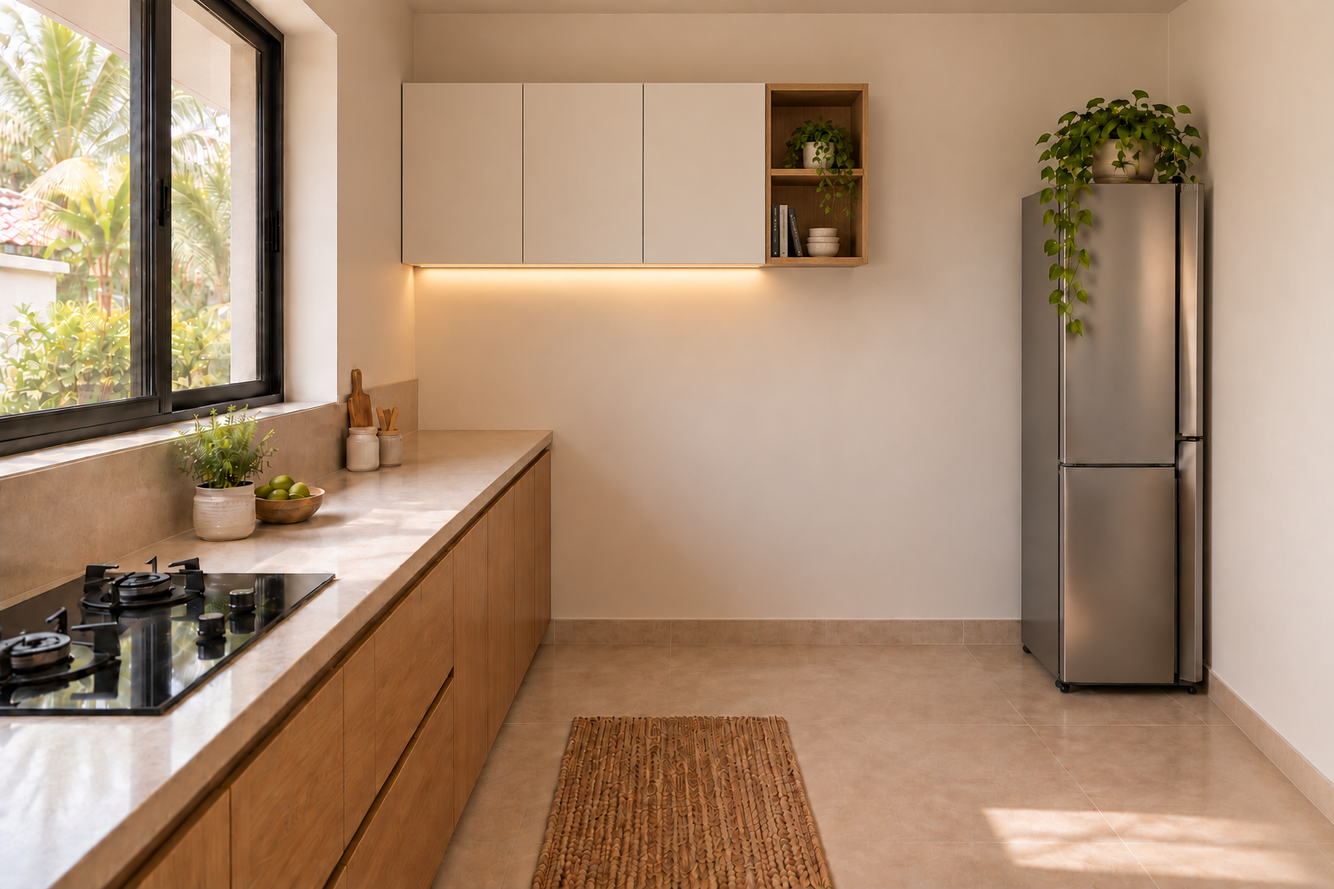
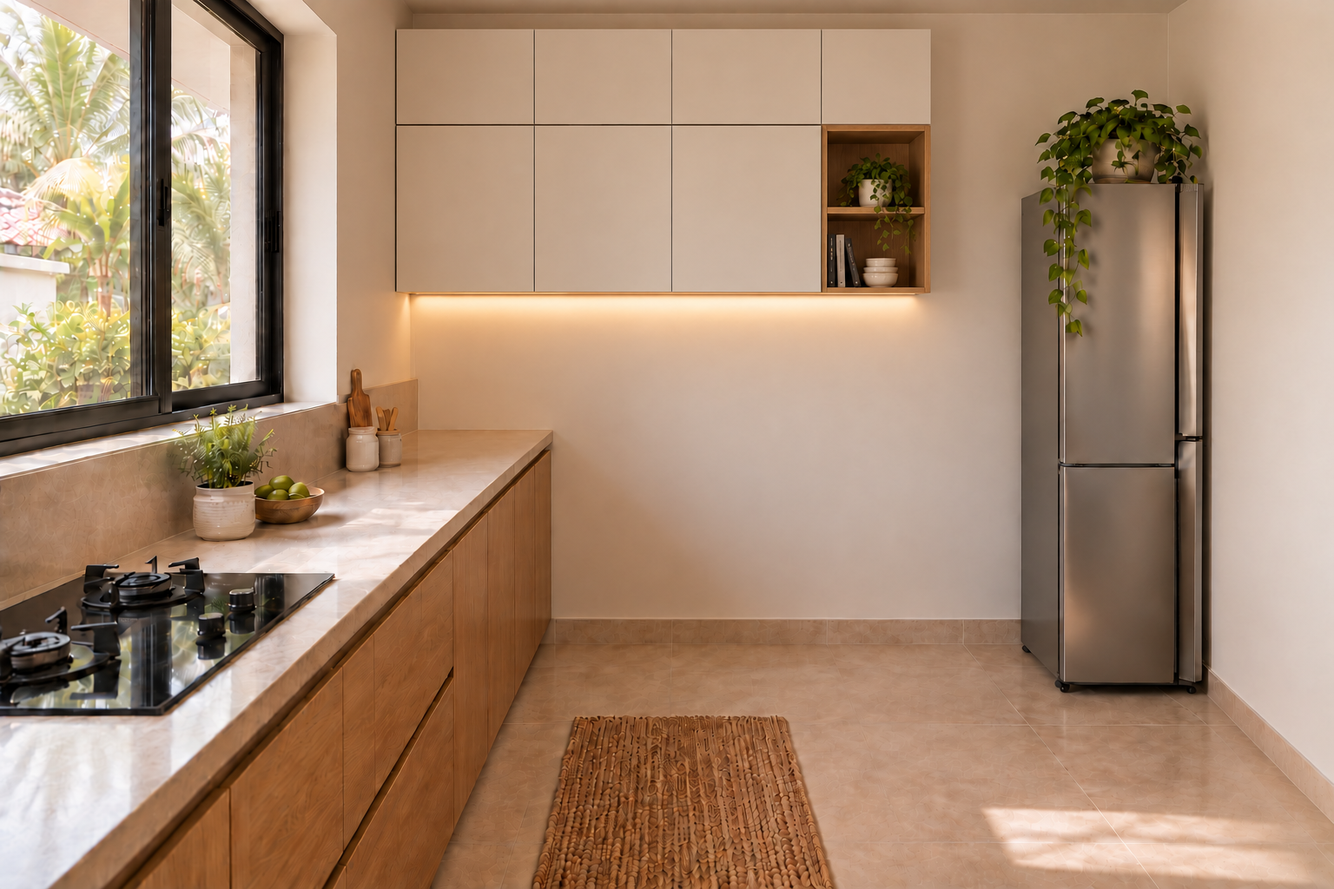
Refactor kitchen opposite view to enhance storage design
- Updated the kitchen opposite view to include larger ivory main cupboards, a full row of closed loft cupboards, and a narrow oak display bay, responding to user feedback for improved storage.
- Adjusted descriptions in build_style_reference.py, house-style.json, image-inventory.json, image-release.json, and STYLE_REFERENCE.html to reflect the new cupboard design and maintain consistency across documentation.
- Revised the IMAGE_REVIEW.md to clarify changes made in the kitchen opposite view and ensure alignment with user requests.
- Updated the STYLE_REFERENCE.md to detail the changes in storage design and maintain the integrity of the original kitchen finishes.
- Committed a new version of the kitchen opposite image to reflect the design updates.

diff --git a/interiors/STYLE_REFERENCE.html b/interiors/STYLE_REFERENCE.html
@@ -9,6 +9,6 @@
 <section><h2>What makes the images feel real.</h2><div class="rules"><article><h3>Materials you can read</h3><p>Fine oak grain, subtle mineral variation, woven fabric and soft ceramic reflections. Keep the timber muted and its grain in proportion.</p></article><article><h3>Light that belongs to the room</h3><p>Daylight enters through existing openings. Warm task lights blend into it with gentle falloff, controlled highlights and soft shadows.</p></article><article><h3>The approved room, photographed</h3><p>Retain the camera, openings, stairs and furniture positions. Keep straight verticals, believable scale, natural contrast and clear circulation.</p></article></div></section>
 <section><h2>The same palette, room by room.</h2><div class="grid examples"><figure><a href="images/16-dining-wide.png"><img src="images/16-dining-wide.png" alt="Oak furniture, cream fabric and soft reflections across the pale floor." loading="lazy"></a><figcaption><strong>Living-area atmosphere</strong><span>Oak furniture, cream fabric and soft reflections across the pale floor.</span></figcaption></figure><figure><a href="images/07-bedroom1-detail.png"><img src="images/07-bedroom1-detail.png" alt="Linen weave, small folds, matte oak and a muted green accent." loading="lazy"></a><figcaption><strong>Texture and sage</strong><span>Linen weave, small folds, matte oak and a muted green accent.</span></figcaption></figure><figure><a href="images/08-bedroom2-wide.png"><img src="images/08-bedroom2-wide.png" alt="The same house palette with olive textiles and a woven runner." loading="lazy"></a><figcaption><strong>Olive and oatmeal</strong><span>The same house palette with olive textiles and a woven runner.</span></figcaption></figure><figure><a href="images/09-bedroom3-wide.png"><img src="images/09-bedroom3-wide.png" alt="Terracotta stays in small textile accents; the oak and ivory base continues." loading="lazy"></a><figcaption><strong>A restrained clay accent</strong><span>Terracotta stays in small textile accents; the oak and ivory base continues.</span></figcaption></figure><figure><a href="images/11-bathroom1-wide.png"><img src="images/11-bathroom1-wide.png" alt="Pale tile, natural timber and white ceramic have distinct surface responses." loading="lazy"></a><figcaption><strong>Stone and ceramic</strong><span>Pale tile, natural timber and white ceramic have distinct surface responses.</span></figcaption></figure><figure><a href="images/10-study-wide.png"><img src="images/10-study-wide.png" alt="The retained family and tailoring room uses the same light, timber and pale finishes." loading="lazy"></a><figcaption><strong>Soft daylight and comfort</strong><span>The retained family and tailoring room uses the same light, timber and pale finishes.</span></figcaption></figure></div></section>
 <section><h2>Carry the style forward.</h2><ol><li>Use the kitchen wide and detail as the finish references for every revision.</li><li>Use the current approved geometry view for the camera, layout, fixtures and joinery profiles.</li><li>Compare every view of the same room together for matching oak, stone, lighting and details.</li><li>Check texture and realism at full size before replacing the presentation image.</li></ol><p>Fluting belongs only where the selected joinery design calls for it. Preserve each room’s approved details and material balance.</p></section>
-<section id="library" class="library-section"><h2>The finish reference library.</h2><p>Current room photographs, grouped by room. Open any group to see every view. These establish visual style; the current approved model governs layout.</p><details><summary>Kitchen <small>· 3 views</small></summary><p>User-approved wide/detail retain the original palette. South-facing opposite adds matching ivory cupboards and an oak shelf bay on the solid end wall; left hob counter continues to it and fridge stays against the straight right wall. Entry and sink return remain behind the camera.</p><div class="grid library"><figure><a href="images/06-kitchen-wide.png"><img src="images/06-kitchen-wide.png" alt="User-approved wide/detail retain the original palette. South-facing opposite adds matching ivory cupboards and an oak shelf bay on the solid end wall; left hob counter continues to it and fridge stays against the straight right wall. Entry and sink return remain behind the camera." loading="lazy"></a><figcaption><strong>06-kitchen-wide.png</strong><span>User-approved wide/detail retain the original palette. South-facing opposite adds matching ivory cupboards and an oak shelf bay on the solid end wall; left hob counter continues to it and fridge stays against the straight right wall. Entry and sink return remain behind the camera.</span></figcaption></figure><figure><a href="images/06-kitchen-detail.png"><img src="images/06-kitchen-detail.png" alt="User-approved wide/detail retain the original palette. South-facing opposite adds matching ivory cupboards and an oak shelf bay on the solid end wall; left hob counter continues to it and fridge stays against the straight right wall. Entry and sink return remain behind the camera." loading="lazy"></a><figcaption><strong>06-kitchen-detail.png</strong><span>User-approved wide/detail retain the original palette. South-facing opposite adds matching ivory cupboards and an oak shelf bay on the solid end wall; left hob counter continues to it and fridge stays against the straight right wall. Entry and sink return remain behind the camera.</span></figcaption></figure><figure><a href="images/06-kitchen-opposite.png"><img src="images/06-kitchen-opposite.png" alt="User-approved wide/detail retain the original palette. South-facing opposite adds matching ivory cupboards and an oak shelf bay on the solid end wall; left hob counter continues to it and fridge stays against the straight right wall. Entry and sink return remain behind the camera." loading="lazy"></a><figcaption><strong>06-kitchen-opposite.png</strong><span>User-approved wide/detail retain the original palette. South-facing opposite adds matching ivory cupboards and an oak shelf bay on the solid end wall; left hob counter continues to it and fridge stays against the straight right wall. Entry and sink return remain behind the camera.</span></figcaption></figure></div></details><details><summary>Dining <small>· 1 views</small></summary><p>Oak furniture, cream upholstery, pale floor and gentle daylight.</p><div class="grid library"><figure><a href="images/16-dining-wide.png"><img src="images/16-dining-wide.png" alt="Oak furniture, cream upholstery, pale floor and gentle daylight." loading="lazy"></a><figcaption><strong>16-dining-wide.png</strong><span>Oak furniture, cream upholstery, pale floor and gentle daylight.</span></figcaption></figure></div></details><details><summary>Bedroom 1 <small>· 3 views</small></summary><p>Sage accents, textured ivory linen and natural oak; the wide view governs light oak wood-look bedroom flooring.</p><div class="grid library"><figure><a href="images/07-bedroom1-wide.png"><img src="images/07-bedroom1-wide.png" alt="Sage accents, textured ivory linen and natural oak; the wide view governs light oak wood-look bedroom flooring." loading="lazy"></a><figcaption><strong>07-bedroom1-wide.png</strong><span>Sage accents, textured ivory linen and natural oak; the wide view governs light oak wood-look bedroom flooring.</span></figcaption></figure><figure><a href="images/07-bedroom1-detail.png"><img src="images/07-bedroom1-detail.png" alt="Sage accents, textured ivory linen and natural oak; the wide view governs light oak wood-look bedroom flooring." loading="lazy"></a><figcaption><strong>07-bedroom1-detail.png</strong><span>Sage accents, textured ivory linen and natural oak; the wide view governs light oak wood-look bedroom flooring.</span></figcaption></figure><figure><a href="images/07-bedroom1-opposite.png"><img src="images/07-bedroom1-opposite.png" alt="Sage accents, textured ivory linen and natural oak; the wide view governs light oak wood-look bedroom flooring." loading="lazy"></a><figcaption><strong>07-bedroom1-opposite.png</strong><span>Sage accents, textured ivory linen and natural oak; the wide view governs light oak wood-look bedroom flooring.</span></figcaption></figure></div></details><details><summary>Master bedroom <small>· 3 views</small></summary><p>Olive textiles, oatmeal upholstery, woven runner and oak; opposite-view bedroom flooring follows Bedroom 1 wide, with stone retained beyond the door.</p><div class="grid library"><figure><a href="images/08-bedroom2-wide.png"><img src="images/08-bedroom2-wide.png" alt="Olive textiles, oatmeal upholstery, woven runner and oak; opposite-view bedroom flooring follows Bedroom 1 wide, with stone retained beyond the door." loading="lazy"></a><figcaption><strong>08-bedroom2-wide.png</strong><span>Olive textiles, oatmeal upholstery, woven runner and oak; opposite-view bedroom flooring follows Bedroom 1 wide, with stone retained beyond the door.</span></figcaption></figure><figure><a href="images/08-bedroom2-detail.png"><img src="images/08-bedroom2-detail.png" alt="Olive textiles, oatmeal upholstery, woven runner and oak; opposite-view bedroom flooring follows Bedroom 1 wide, with stone retained beyond the door." loading="lazy"></a><figcaption><strong>08-bedroom2-detail.png</strong><span>Olive textiles, oatmeal upholstery, woven runner and oak; opposite-view bedroom flooring follows Bedroom 1 wide, with stone retained beyond the door.</span></figcaption></figure><figure><a href="images/08-bedroom2-opposite.png"><img src="images/08-bedroom2-opposite.png" alt="Olive textiles, oatmeal upholstery, woven runner and oak; opposite-view bedroom flooring follows Bedroom 1 wide, with stone retained beyond the door." loading="lazy"></a><figcaption><strong>08-bedroom2-opposite.png</strong><span>Olive textiles, oatmeal upholstery, woven runner and oak; opposite-view bedroom flooring follows Bedroom 1 wide, with stone retained beyond the door.</span></figcaption></figure></div></details><details><summary>Bedroom 3 <small>· 3 views</small></summary><p>Clay accent, ivory wardrobe with muted oak bay, and recessed charcoal pulls; wide-view bedroom flooring follows Bedroom 1 wide and preserves the rug.</p><div class="grid library"><figure><a href="images/09-bedroom3-wide.png"><img src="images/09-bedroom3-wide.png" alt="Clay accent, ivory wardrobe with muted oak bay, and recessed charcoal pulls; wide-view bedroom flooring follows Bedroom 1 wide and preserves the rug." loading="lazy"></a><figcaption><strong>09-bedroom3-wide.png</strong><span>Clay accent, ivory wardrobe with muted oak bay, and recessed charcoal pulls; wide-view bedroom flooring follows Bedroom 1 wide and preserves the rug.</span></figcaption></figure><figure><a href="images/09-bedroom3-detail.png"><img src="images/09-bedroom3-detail.png" alt="Clay accent, ivory wardrobe with muted oak bay, and recessed charcoal pulls; wide-view bedroom flooring follows Bedroom 1 wide and preserves the rug." loading="lazy"></a><figcaption><strong>09-bedroom3-detail.png</strong><span>Clay accent, ivory wardrobe with muted oak bay, and recessed charcoal pulls; wide-view bedroom flooring follows Bedroom 1 wide and preserves the rug.</span></figcaption></figure><figure><a href="images/09-bedroom3-opposite.png"><img src="images/09-bedroom3-opposite.png" alt="Clay accent, ivory wardrobe with muted oak bay, and recessed charcoal pulls; wide-view bedroom flooring follows Bedroom 1 wide and preserves the rug." loading="lazy"></a><figcaption><strong>09-bedroom3-opposite.png</strong><span>Clay accent, ivory wardrobe with muted oak bay, and recessed charcoal pulls; wide-view bedroom flooring follows Bedroom 1 wide and preserves the rug.</span></figcaption></figure></div></details><details><summary>Study <small>· 2 views</small></summary><p>Retained family/tailoring workspace, shared ivory linen cabinet and soft daylight.</p><div class="grid library"><figure><a href="images/10-study-wide.png"><img src="images/10-study-wide.png" alt="Retained family/tailoring workspace, shared ivory linen cabinet and soft daylight." loading="lazy"></a><figcaption><strong>10-study-wide.png</strong><span>Retained family/tailoring workspace, shared ivory linen cabinet and soft daylight.</span></figcaption></figure><figure><a href="images/10-study-storage.png"><img src="images/10-study-storage.png" alt="Retained family/tailoring workspace, shared ivory linen cabinet and soft daylight." loading="lazy"></a><figcaption><strong>10-study-storage.png</strong><span>Retained family/tailoring workspace, shared ivory linen cabinet and soft daylight.</span></figcaption></figure></div></details><details><summary>Passage and gallery <small>· 2 views</small></summary><p>Ivory and stone continuity, oak and charcoal edges, greenery.</p><div class="grid library"><figure><a href="images/10-passage-wide.png"><img src="images/10-passage-wide.png" alt="Ivory and stone continuity, oak and charcoal edges, greenery." loading="lazy"></a><figcaption><strong>10-passage-wide.png</strong><span>Ivory and stone continuity, oak and charcoal edges, greenery.</span></figcaption></figure><figure><a href="images/17-front-gallery-wide.png"><img src="images/17-front-gallery-wide.png" alt="Ivory and stone continuity, oak and charcoal edges, greenery." loading="lazy"></a><figcaption><strong>17-front-gallery-wide.png</strong><span>Ivory and stone continuity, oak and charcoal edges, greenery.</span></figcaption></figure></div></details><details><summary>Bathrooms <small>· 3 views</small></summary><p>Stone, oak vanity, white ceramic, dark fittings and gentle mirror light.</p><div class="grid library"><figure><a href="images/11-bathroom1-wide.png"><img src="images/11-bathroom1-wide.png" alt="Stone, oak vanity, white ceramic, dark fittings and gentle mirror light." loading="lazy"></a><figcaption><strong>11-bathroom1-wide.png</strong><span>Stone, oak vanity, white ceramic, dark fittings and gentle mirror light.</span></figcaption></figure><figure><a href="images/12-bathroom2-wide.png"><img src="images/12-bathroom2-wide.png" alt="Stone, oak vanity, white ceramic, dark fittings and gentle mirror light." loading="lazy"></a><figcaption><strong>12-bathroom2-wide.png</strong><span>Stone, oak vanity, white ceramic, dark fittings and gentle mirror light.</span></figcaption></figure><figure><a href="images/13-bathroom3-wide.png"><img src="images/13-bathroom3-wide.png" alt="Stone, oak vanity, white ceramic, dark fittings and gentle mirror light." loading="lazy"></a><figcaption><strong>13-bathroom3-wide.png</strong><span>Stone, oak vanity, white ceramic, dark fittings and gentle mirror light.</span></figcaption></figure></div></details><details><summary>Entrance and outdoor rooms <small>· 3 views</small></summary><p>Timber, woven seating, pale stone and tropical context; natural daylight variations.</p><div class="grid library"><figure><a href="images/01-entrance-wide.png"><img src="images/01-entrance-wide.png" alt="Timber, woven seating, pale stone and tropical context; natural daylight variations." loading="lazy"></a><figcaption><strong>01-entrance-wide.png</strong><span>Timber, woven seating, pale stone and tropical context; natural daylight variations.</span></figcaption></figure><figure><a href="images/14-balcony-wide.png"><img src="images/14-balcony-wide.png" alt="Timber, woven seating, pale stone and tropical context; natural daylight variations." loading="lazy"></a><figcaption><strong>14-balcony-wide.png</strong><span>Timber, woven seating, pale stone and tropical context; natural daylight variations.</span></figcaption></figure><figure><a href="images/15-terrace-wide.png"><img src="images/15-terrace-wide.png" alt="Timber, woven seating, pale stone and tropical context; natural daylight variations." loading="lazy"></a><figcaption><strong>15-terrace-wide.png</strong><span>Timber, woven seating, pale stone and tropical context; natural daylight variations.</span></figcaption></figure></div></details></section>
+<section id="library" class="library-section"><h2>The finish reference library.</h2><p>Current room photographs, grouped by room. Open any group to see every view. These establish visual style; the current approved model governs layout.</p><details><summary>Kitchen <small>· 3 views</small></summary><p>User-approved wide/detail retain the original palette. South-facing opposite uses larger ivory main cupboards, closed loft storage and a narrow oak display bay on the solid end wall. Existing counter, window, fridge and straight right wall retain their positions; entry and sink return remain behind the camera.</p><div class="grid library"><figure><a href="images/06-kitchen-wide.png"><img src="images/06-kitchen-wide.png" alt="User-approved wide/detail retain the original palette. South-facing opposite uses larger ivory main cupboards, closed loft storage and a narrow oak display bay on the solid end wall. Existing counter, window, fridge and straight right wall retain their positions; entry and sink return remain behind the camera." loading="lazy"></a><figcaption><strong>06-kitchen-wide.png</strong><span>User-approved wide/detail retain the original palette. South-facing opposite uses larger ivory main cupboards, closed loft storage and a narrow oak display bay on the solid end wall. Existing counter, window, fridge and straight right wall retain their positions; entry and sink return remain behind the camera.</span></figcaption></figure><figure><a href="images/06-kitchen-detail.png"><img src="images/06-kitchen-detail.png" alt="User-approved wide/detail retain the original palette. South-facing opposite uses larger ivory main cupboards, closed loft storage and a narrow oak display bay on the solid end wall. Existing counter, window, fridge and straight right wall retain their positions; entry and sink return remain behind the camera." loading="lazy"></a><figcaption><strong>06-kitchen-detail.png</strong><span>User-approved wide/detail retain the original palette. South-facing opposite uses larger ivory main cupboards, closed loft storage and a narrow oak display bay on the solid end wall. Existing counter, window, fridge and straight right wall retain their positions; entry and sink return remain behind the camera.</span></figcaption></figure><figure><a href="images/06-kitchen-opposite.png"><img src="images/06-kitchen-opposite.png" alt="User-approved wide/detail retain the original palette. South-facing opposite uses larger ivory main cupboards, closed loft storage and a narrow oak display bay on the solid end wall. Existing counter, window, fridge and straight right wall retain their positions; entry and sink return remain behind the camera." loading="lazy"></a><figcaption><strong>06-kitchen-opposite.png</strong><span>User-approved wide/detail retain the original palette. South-facing opposite uses larger ivory main cupboards, closed loft storage and a narrow oak display bay on the solid end wall. Existing counter, window, fridge and straight right wall retain their positions; entry and sink return remain behind the camera.</span></figcaption></figure></div></details><details><summary>Dining <small>· 1 views</small></summary><p>Oak furniture, cream upholstery, pale floor and gentle daylight.</p><div class="grid library"><figure><a href="images/16-dining-wide.png"><img src="images/16-dining-wide.png" alt="Oak furniture, cream upholstery, pale floor and gentle daylight." loading="lazy"></a><figcaption><strong>16-dining-wide.png</strong><span>Oak furniture, cream upholstery, pale floor and gentle daylight.</span></figcaption></figure></div></details><details><summary>Bedroom 1 <small>· 3 views</small></summary><p>Sage accents, textured ivory linen and natural oak; the wide view governs light oak wood-look bedroom flooring.</p><div class="grid library"><figure><a href="images/07-bedroom1-wide.png"><img src="images/07-bedroom1-wide.png" alt="Sage accents, textured ivory linen and natural oak; the wide view governs light oak wood-look bedroom flooring." loading="lazy"></a><figcaption><strong>07-bedroom1-wide.png</strong><span>Sage accents, textured ivory linen and natural oak; the wide view governs light oak wood-look bedroom flooring.</span></figcaption></figure><figure><a href="images/07-bedroom1-detail.png"><img src="images/07-bedroom1-detail.png" alt="Sage accents, textured ivory linen and natural oak; the wide view governs light oak wood-look bedroom flooring." loading="lazy"></a><figcaption><strong>07-bedroom1-detail.png</strong><span>Sage accents, textured ivory linen and natural oak; the wide view governs light oak wood-look bedroom flooring.</span></figcaption></figure><figure><a href="images/07-bedroom1-opposite.png"><img src="images/07-bedroom1-opposite.png" alt="Sage accents, textured ivory linen and natural oak; the wide view governs light oak wood-look bedroom flooring." loading="lazy"></a><figcaption><strong>07-bedroom1-opposite.png</strong><span>Sage accents, textured ivory linen and natural oak; the wide view governs light oak wood-look bedroom flooring.</span></figcaption></figure></div></details><details><summary>Master bedroom <small>· 3 views</small></summary><p>Olive textiles, oatmeal upholstery, woven runner and oak; opposite-view bedroom flooring follows Bedroom 1 wide, with stone retained beyond the door.</p><div class="grid library"><figure><a href="images/08-bedroom2-wide.png"><img src="images/08-bedroom2-wide.png" alt="Olive textiles, oatmeal upholstery, woven runner and oak; opposite-view bedroom flooring follows Bedroom 1 wide, with stone retained beyond the door." loading="lazy"></a><figcaption><strong>08-bedroom2-wide.png</strong><span>Olive textiles, oatmeal upholstery, woven runner and oak; opposite-view bedroom flooring follows Bedroom 1 wide, with stone retained beyond the door.</span></figcaption></figure><figure><a href="images/08-bedroom2-detail.png"><img src="images/08-bedroom2-detail.png" alt="Olive textiles, oatmeal upholstery, woven runner and oak; opposite-view bedroom flooring follows Bedroom 1 wide, with stone retained beyond the door." loading="lazy"></a><figcaption><strong>08-bedroom2-detail.png</strong><span>Olive textiles, oatmeal upholstery, woven runner and oak; opposite-view bedroom flooring follows Bedroom 1 wide, with stone retained beyond the door.</span></figcaption></figure><figure><a href="images/08-bedroom2-opposite.png"><img src="images/08-bedroom2-opposite.png" alt="Olive textiles, oatmeal upholstery, woven runner and oak; opposite-view bedroom flooring follows Bedroom 1 wide, with stone retained beyond the door." loading="lazy"></a><figcaption><strong>08-bedroom2-opposite.png</strong><span>Olive textiles, oatmeal upholstery, woven runner and oak; opposite-view bedroom flooring follows Bedroom 1 wide, with stone retained beyond the door.</span></figcaption></figure></div></details><details><summary>Bedroom 3 <small>· 3 views</small></summary><p>Clay accent, ivory wardrobe with muted oak bay, and recessed charcoal pulls; wide-view bedroom flooring follows Bedroom 1 wide and preserves the rug.</p><div class="grid library"><figure><a href="images/09-bedroom3-wide.png"><img src="images/09-bedroom3-wide.png" alt="Clay accent, ivory wardrobe with muted oak bay, and recessed charcoal pulls; wide-view bedroom flooring follows Bedroom 1 wide and preserves the rug." loading="lazy"></a><figcaption><strong>09-bedroom3-wide.png</strong><span>Clay accent, ivory wardrobe with muted oak bay, and recessed charcoal pulls; wide-view bedroom flooring follows Bedroom 1 wide and preserves the rug.</span></figcaption></figure><figure><a href="images/09-bedroom3-detail.png"><img src="images/09-bedroom3-detail.png" alt="Clay accent, ivory wardrobe with muted oak bay, and recessed charcoal pulls; wide-view bedroom flooring follows Bedroom 1 wide and preserves the rug." loading="lazy"></a><figcaption><strong>09-bedroom3-detail.png</strong><span>Clay accent, ivory wardrobe with muted oak bay, and recessed charcoal pulls; wide-view bedroom flooring follows Bedroom 1 wide and preserves the rug.</span></figcaption></figure><figure><a href="images/09-bedroom3-opposite.png"><img src="images/09-bedroom3-opposite.png" alt="Clay accent, ivory wardrobe with muted oak bay, and recessed charcoal pulls; wide-view bedroom flooring follows Bedroom 1 wide and preserves the rug." loading="lazy"></a><figcaption><strong>09-bedroom3-opposite.png</strong><span>Clay accent, ivory wardrobe with muted oak bay, and recessed charcoal pulls; wide-view bedroom flooring follows Bedroom 1 wide and preserves the rug.</span></figcaption></figure></div></details><details><summary>Study <small>· 2 views</small></summary><p>Retained family/tailoring workspace, shared ivory linen cabinet and soft daylight.</p><div class="grid library"><figure><a href="images/10-study-wide.png"><img src="images/10-study-wide.png" alt="Retained family/tailoring workspace, shared ivory linen cabinet and soft daylight." loading="lazy"></a><figcaption><strong>10-study-wide.png</strong><span>Retained family/tailoring workspace, shared ivory linen cabinet and soft daylight.</span></figcaption></figure><figure><a href="images/10-study-storage.png"><img src="images/10-study-storage.png" alt="Retained family/tailoring workspace, shared ivory linen cabinet and soft daylight." loading="lazy"></a><figcaption><strong>10-study-storage.png</strong><span>Retained family/tailoring workspace, shared ivory linen cabinet and soft daylight.</span></figcaption></figure></div></details><details><summary>Passage and gallery <small>· 2 views</small></summary><p>Ivory and stone continuity, oak and charcoal edges, greenery.</p><div class="grid library"><figure><a href="images/10-passage-wide.png"><img src="images/10-passage-wide.png" alt="Ivory and stone continuity, oak and charcoal edges, greenery." loading="lazy"></a><figcaption><strong>10-passage-wide.png</strong><span>Ivory and stone continuity, oak and charcoal edges, greenery.</span></figcaption></figure><figure><a href="images/17-front-gallery-wide.png"><img src="images/17-front-gallery-wide.png" alt="Ivory and stone continuity, oak and charcoal edges, greenery." loading="lazy"></a><figcaption><strong>17-front-gallery-wide.png</strong><span>Ivory and stone continuity, oak and charcoal edges, greenery.</span></figcaption></figure></div></details><details><summary>Bathrooms <small>· 3 views</small></summary><p>Stone, oak vanity, white ceramic, dark fittings and gentle mirror light.</p><div class="grid library"><figure><a href="images/11-bathroom1-wide.png"><img src="images/11-bathroom1-wide.png" alt="Stone, oak vanity, white ceramic, dark fittings and gentle mirror light." loading="lazy"></a><figcaption><strong>11-bathroom1-wide.png</strong><span>Stone, oak vanity, white ceramic, dark fittings and gentle mirror light.</span></figcaption></figure><figure><a href="images/12-bathroom2-wide.png"><img src="images/12-bathroom2-wide.png" alt="Stone, oak vanity, white ceramic, dark fittings and gentle mirror light." loading="lazy"></a><figcaption><strong>12-bathroom2-wide.png</strong><span>Stone, oak vanity, white ceramic, dark fittings and gentle mirror light.</span></figcaption></figure><figure><a href="images/13-bathroom3-wide.png"><img src="images/13-bathroom3-wide.png" alt="Stone, oak vanity, white ceramic, dark fittings and gentle mirror light." loading="lazy"></a><figcaption><strong>13-bathroom3-wide.png</strong><span>Stone, oak vanity, white ceramic, dark fittings and gentle mirror light.</span></figcaption></figure></div></details><details><summary>Entrance and outdoor rooms <small>· 3 views</small></summary><p>Timber, woven seating, pale stone and tropical context; natural daylight variations.</p><div class="grid library"><figure><a href="images/01-entrance-wide.png"><img src="images/01-entrance-wide.png" alt="Timber, woven seating, pale stone and tropical context; natural daylight variations." loading="lazy"></a><figcaption><strong>01-entrance-wide.png</strong><span>Timber, woven seating, pale stone and tropical context; natural daylight variations.</span></figcaption></figure><figure><a href="images/14-balcony-wide.png"><img src="images/14-balcony-wide.png" alt="Timber, woven seating, pale stone and tropical context; natural daylight variations." loading="lazy"></a><figcaption><strong>14-balcony-wide.png</strong><span>Timber, woven seating, pale stone and tropical context; natural daylight variations.</span></figcaption></figure><figure><a href="images/15-terrace-wide.png"><img src="images/15-terrace-wide.png" alt="Timber, woven seating, pale stone and tropical context; natural daylight variations." loading="lazy"></a><figcaption><strong>15-terrace-wide.png</strong><span>Timber, woven seating, pale stone and tropical context; natural daylight variations.</span></figcaption></figure></div></details></section>
 <footer><p>Style reference established 15 September 2026. Full material rules, reusable generation brief and review criteria: <a href="STYLE_REFERENCE.md">STYLE_REFERENCE.md</a>. Source hashes: <a href=".source/house-style.json">house-style.json</a>.</p></footer>
 </main></body></html>

diff --git a/interiors/.source/build_style_reference.py b/interiors/.source/build_style_reference.py
@@ -16,7 +16,7 @@ swatches = [
     ('Clay', '#B07D60', 'Bedroom 3 accent'),
 ]
 groups = [
-    ('Kitchen', ['06-kitchen-wide', '06-kitchen-detail', '06-kitchen-opposite'], 'User-approved wide/detail retain the original palette. South-facing opposite adds matching ivory cupboards and an oak shelf bay on the solid end wall; left hob counter continues to it and fridge stays against the straight right wall. Entry and sink return remain behind the camera.'),
+    ('Kitchen', ['06-kitchen-wide', '06-kitchen-detail', '06-kitchen-opposite'], 'User-approved wide/detail retain the original palette. South-facing opposite uses larger ivory main cupboards, closed loft storage and a narrow oak display bay on the solid end wall. Existing counter, window, fridge and straight right wall retain their positions; entry and sink return remain behind the camera.'),
     ('Dining', ['16-dining-wide'], 'Oak furniture, cream upholstery, pale floor and gentle daylight.'),
     ('Bedroom 1', ['07-bedroom1-wide', '07-bedroom1-detail', '07-bedroom1-opposite'], 'Sage accents, textured ivory linen and natural oak; the wide view governs light oak wood-look bedroom flooring.'),
     ('Master bedroom', ['08-bedroom2-wide', '08-bedroom2-detail', '08-bedroom2-opposite'], 'Olive textiles, oatmeal upholstery, woven runner and oak; opposite-view bedroom flooring follows Bedroom 1 wide, with stone retained beyond the door.'),

diff --git a/interiors/IMAGE_REVIEW.md b/interiors/IMAGE_REVIEW.md
@@ -2,7 +2,7 @@
 
 ## Kitchen plan correction · 12 October 2026
 
-[Kitchen wide](images/06-kitchen-wide.png) and [kitchen detail](images/06-kitchen-detail.png) were explicitly accepted by the user and remain unchanged in this follow-up. [Kitchen opposite](images/06-kitchen-opposite.png) faces south: the visible end is a solid wall, the east/window hob counter continues along the left to that wall, and the southwest fridge is on the right against the west wall. At the user's request, the solid end wall now carries three matching ivory cupboard doors, a small open oak shelf bay and soft concealed task lighting, following the wide image's design. The window and fridge aisle remain clear. This cupboard addition is shown in the presentation; the drawing/model files are unchanged. The northwest door and north sink return remain behind this camera, matching their positions in the accepted wide photograph and on page 3 of [the complete house plans](../drawings/compact-v4/Hensal_Complete_House_Plans.pdf). The earlier west-facing opposite image, with a door on the visible end wall and fridge at back-left, was rejected by the user.
+[Kitchen wide](images/06-kitchen-wide.png) and [kitchen detail](images/06-kitchen-detail.png) were explicitly accepted by the user and remain unchanged in this follow-up. [Kitchen opposite](images/06-kitchen-opposite.png) faces south: the visible end is a solid wall, the east/window hob counter continues along the left to that wall, and the southwest fridge is on the right against the west wall. After the user found the first cupboards too small, the end-wall unit was enlarged in width and height: three taller ivory main doors, a full row of four closed loft cupboards near the ceiling, one narrow open oak display bay and soft concealed task lighting. The design uses the reference's finishes while providing more closed storage. Countertop clearance, window and fridge aisle remain clear, and all other room elements retain their positions. This storage design is shown in the presentation; the drawing/model files are unchanged. The northwest door and north sink return remain behind this camera, matching their positions in the accepted wide photograph and on page 3 of [the complete house plans](../drawings/compact-v4/Hensal_Complete_House_Plans.pdf). The earlier west-facing opposite image, with a door on the visible end wall and fridge at back-left, was rejected by the user.
 
 The right/west fridge wall and skirting remain straight, as drawn on PDF page 3. The wide and detail retain user acceptance and are unchanged. The kitchen working folder was removed at the user's request; exact built-in imagegen prompts, source roles/hashes, PDF crop recipe, camera audit and final hashes, including the cupboard addition, are consolidated in [the release manifest](.source/image-release.json). Original style inputs remain recoverable from Git commit `12e352ed27b39eb4b067b05daf43ecc3e3e2a4ca`; generated intermediates remain outside the project. Assistant visual review passed for the cupboard addition; user acceptance of this latest edit is pending. These photographs are illustrative. The tour video and its source manifest remain unchanged at the user's request and still show the preceding kitchen wide photograph.
 

diff --git a/interiors/STYLE_REFERENCE.md b/interiors/STYLE_REFERENCE.md
@@ -6,7 +6,7 @@ Open the [visual reference board](STYLE_REFERENCE.html) for the photographs, pal
 
 ## Governing references
 
-The latest opposite-view edit adds user-requested ivory wall cupboards, an open oak shelf bay and concealed task lighting on the solid south end wall, matching kitchen wide. The window, fridge placement and straight fridge-side wall remain clear and unchanged. This is a presentation addition; exact prompt and review are under `kitchen_cupboard_generation_history` in the release manifest.
+The latest opposite-view edit enlarges the end-wall storage at the user's request: taller ivory main cupboards, a full row of usable closed loft cupboards near the ceiling and one narrow oak display bay, with concealed task lighting. Kitchen wide guides finishes rather than dimensions. The window, left counter, fridge placement, straight fridge-side wall, floor and aisle retain their positions. This is a presentation design revision; exact prompts and reviews are under `kitchen_cupboard_generation_history` in the release manifest.
 
 The 12 October kitchen correction follows PDF page 3 for the fridge, door and L-counter layout. Current kitchen wide/detail were explicitly accepted by the user and retain the original finishes, with the misplaced fridge removed from their cameras. The corrected opposite faces south, with a blank end wall, left counter extended to that wall and southwest fridge on the right; the northwest entry and north sink return are behind the camera. The fridge-side wall and skirting are straight, without an inward projection. Exact prompts, source hashes, PDF crop recipe and native camera/source audit are consolidated in [image-release.json](.source/image-release.json); the working folder was removed at the user's request. Original material references are recoverable from Git commit `12e352ed27b39eb4b067b05daf43ecc3e3e2a4ca`. Use those historical images for materials only; use page 3 and the accepted wide/detail for kitchen layout. The tour video update is deferred at the user's request.
 
